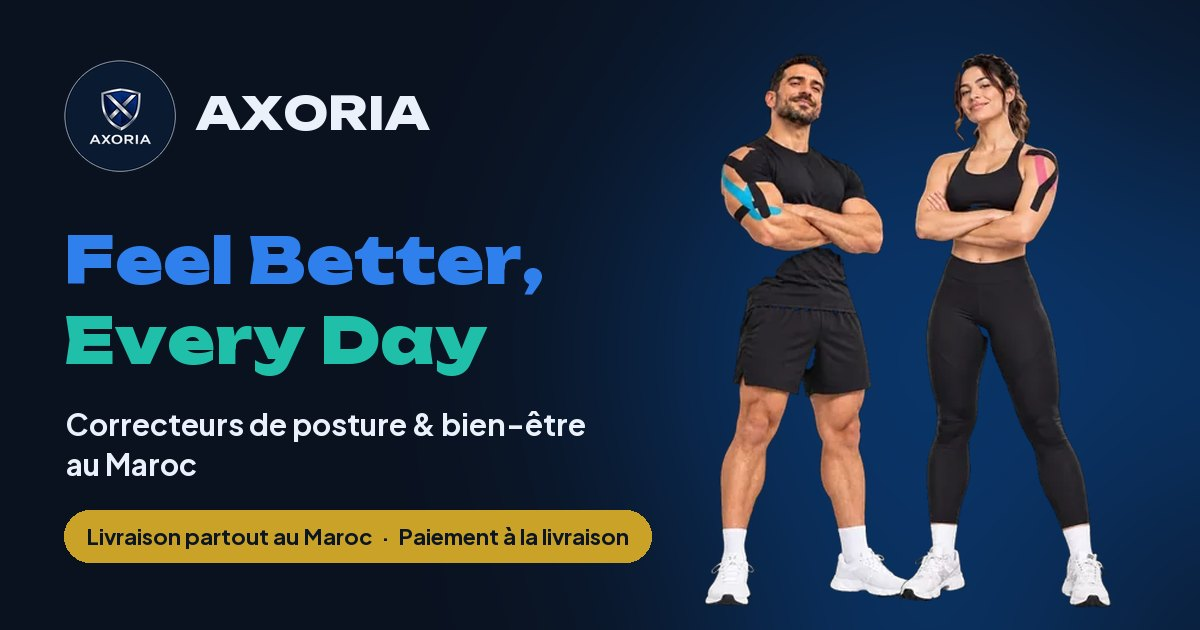
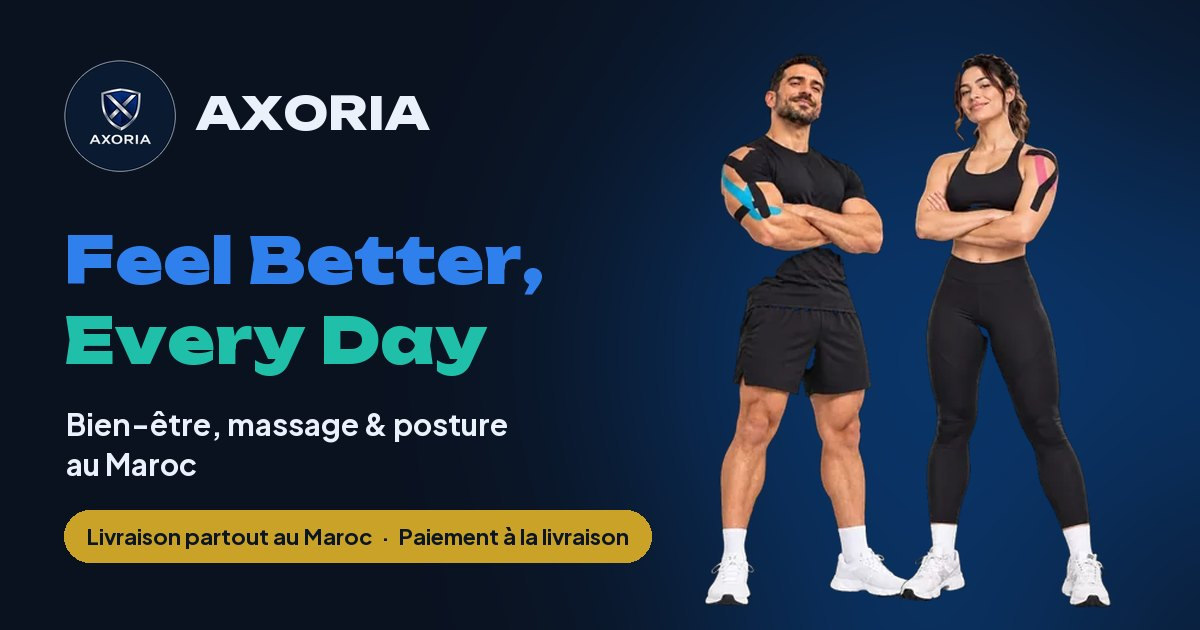
seo: homepage speaks for the whole wellness range, not only posture
- Title, meta description, Open Graph/Twitter tags and H1 (FR/EN/AR)
  now read "Bien-être, massage & posture au Maroc" instead of a
  posture-only line. Dropped "ceinture de maintien" (not in the catalog).
- Share image regenerated with the same line; its URL is versioned
  (?v=2) so Facebook and WhatsApp fetch the new one.
- seo-build.mjs: a product page's sitemap lastmod only moves when the
  page content really changes, so Google keeps trusting the dates.

Changed region(s): [[0.0617, 0.6635, 0.4933, 0.6937]]

diff --git a/index.html b/index.html
@@ -3,25 +3,25 @@
 <head>
 <meta charset="UTF-8">
 <meta name="viewport" content="width=device-width, initial-scale=1">
-<title>Correcteur de posture & masseur au Maroc | AXORIA</title>
-<meta name="description" content="AXORIA, marque marocaine de bien-être : correcteur de posture, ceinture de maintien et masseur cou-épaules. Livraison partout au Maroc, paiement à la livraison.">
-<meta property="og:title" content="AXORIA — Correcteurs de posture & bien-être au Maroc">
+<title>AXORIA – Bien-être, massage & posture au Maroc</title>
+<meta name="description" content="AXORIA, marque marocaine de bien-être : massage, posture et récupération au quotidien. Livraison partout au Maroc et paiement à la livraison.">
+<meta property="og:title" content="AXORIA — Bien-être, massage & posture au Maroc">
 <meta property="og:type" content="website">
 <meta property="og:url" content="https://axoria.ma/">
 <link rel="canonical" href="https://axoria.ma/">
 <link rel="preload" as="image" href="assets/hero/axoria-hero-characters.webp" type="image/webp">
-<meta property="og:description" content="Correcteur de posture, ceinture de maintien et masseur cou-épaules. Livraison partout au Maroc et paiement à la livraison.">
-<meta property="og:image" content="https://axoria.ma/assets/brand/og-axoria.jpg">
+<meta property="og:description" content="Massage, posture et récupération au quotidien. Livraison partout au Maroc et paiement à la livraison.">
+<meta property="og:image" content="https://axoria.ma/assets/brand/og-axoria.jpg?v=2">
 <meta property="og:image:width" content="1200">
 <meta property="og:image:height" content="630">
-<meta property="og:image:alt" content="AXORIA — Feel Better, Every Day. Correcteurs de posture et bien-être au Maroc.">
+<meta property="og:image:alt" content="AXORIA — Feel Better, Every Day. Bien-être, massage et posture au Maroc.">
 <meta name="robots" content="index,follow,max-image-preview:large,max-snippet:-1,max-video-preview:-1">
 <meta property="og:site_name" content="AXORIA">
 <meta property="og:locale" content="fr_MA">
 <meta name="twitter:card" content="summary_large_image">
-<meta name="twitter:title" content="AXORIA — Correcteurs de posture & bien-être au Maroc">
-<meta name="twitter:description" content="Correcteur de posture, ceinture de maintien et masseur cou-épaules. Livraison partout au Maroc et paiement à la livraison.">
-<meta name="twitter:image" content="https://axoria.ma/assets/brand/og-axoria.jpg">
+<meta name="twitter:title" content="AXORIA — Bien-être, massage & posture au Maroc">
+<meta name="twitter:description" content="Massage, posture et récupération au quotidien. Livraison partout au Maroc et paiement à la livraison.">
+<meta name="twitter:image" content="https://axoria.ma/assets/brand/og-axoria.jpg?v=2">
 <link rel="icon" type="image/png" sizes="48x48" href="/assets/brand/favicon-48.png">
 <link rel="icon" type="image/png" sizes="96x96" href="/assets/brand/favicon-96.png">
 <link rel="apple-touch-icon" href="/assets/brand/apple-touch-icon.png">
@@ -737,7 +737,7 @@ input[aria-invalid='true']{border-color:#B42318!important;box-shadow:0 0 0 3px r
   <div class="hero-overlay"></div>
   <div class="hero-particles" id="heroParticles"></div>
   <div class="hero-content">
-    <h1 class="eyebrow" id="heroEyebrow">Correcteurs de posture &amp; bien-être au Maroc</h1>
+    <h1 class="eyebrow" id="heroEyebrow">Bien-être, massage &amp; posture au Maroc</h1>
     <p class="hero-title" id="heroTitle">Feel Better,<br>Every Day</p>
     <p class="subtitle" id="heroSub"><span class="dot"></span>Confort • Bien-être • Équilibre</p>
     <p class="tagline" id="heroTagline">Des essentiels bien-être pensés pour vous apporter plus de confort, de soutien et de sérénité au quotidien.</p>
@@ -1217,7 +1217,7 @@ function trackCommerceEvent(eventName,customData={},userData={},options={}){
 
 const I18N = {
   fr:{brand:'AXORIA', nav:['Accueil','Produits','À Propos','Avis','FAQ','Contact'],
-    heroEyebrow:'Correcteurs de posture & bien-être au Maroc', heroTitle:'Feel Better,<br>Every Day', heroSub:'Confort • Bien-être • Équilibre',
+    heroEyebrow:'Bien-être, massage & posture au Maroc', heroTitle:'Feel Better,<br>Every Day', heroSub:'Confort • Bien-être • Équilibre',
     heroTagline:"Des essentiels bien-être pensés pour vous apporter plus de confort, de soutien et de sérénité au quotidien.",
     heroOrder:'Commander maintenant', heroMenu:'Découvrir les produits', scroll:'DÉFILER',
     trustBadges:['Livraison partout au Maroc','Paiement à la livraison','Garantie qualité'],
@@ -1280,7 +1280,7 @@ const I18N = {
     orderReassure:['Paiement à la livraison, en espèces','Livraison 24 à 72h partout au Maroc','Aucun paiement en ligne demandé']
   },
   en:{brand:'AXORIA', nav:['Home','Products','About','Reviews','FAQ','Contact'],
-    heroEyebrow:'Posture correctors & wellness in Morocco', heroTitle:'Feel Better,<br>Every Day', heroSub:'Comfort • Wellness • Balance',
+    heroEyebrow:'Wellness, massage & posture in Morocco', heroTitle:'Feel Better,<br>Every Day', heroSub:'Comfort • Wellness • Balance',
     heroTagline:"Wellness essentials designed to bring more comfort, support and ease to your everyday routine.",
     heroOrder:'Order Now', heroMenu:'Discover Products', scroll:'SCROLL',
     trustBadges:['Delivery across Morocco','Cash on delivery','Quality guarantee'],
@@ -1343,7 +1343,7 @@ const I18N = {
     orderReassure:['Cash on delivery','Delivery in 24–72h across Morocco','No online payment required']
   },
   ar:{brand:'أكسوريا', nav:['الرئيسية','المنتجات','من نحن','الآراء','الأسئلة الشائعة','اتصل بنا'],
-    heroEyebrow:'مصححات الوضعية ومنتجات العافية في المغرب', heroTitle:'Feel Better,<br>Every Day', heroSub:'راحة • عناية • توازن',
+    heroEyebrow:'العافية والتدليك وتصحيح الوضعية في المغرب', heroTitle:'Feel Better,<br>Every Day', heroSub:'راحة • عناية • توازن',
     heroTagline:"أساسيات للعناية اليومية صُممت لتمنحك مزيداً من الراحة والدعم والسهولة في روتينك.",
     heroOrder:'اطلب الآن', heroMenu:'اكتشف المنتجات', scroll:'مرر للأسفل',
     trustBadges:['توصيل لجميع مدن المغرب','الدفع عند الاستلام','ضمان الجودة'],
